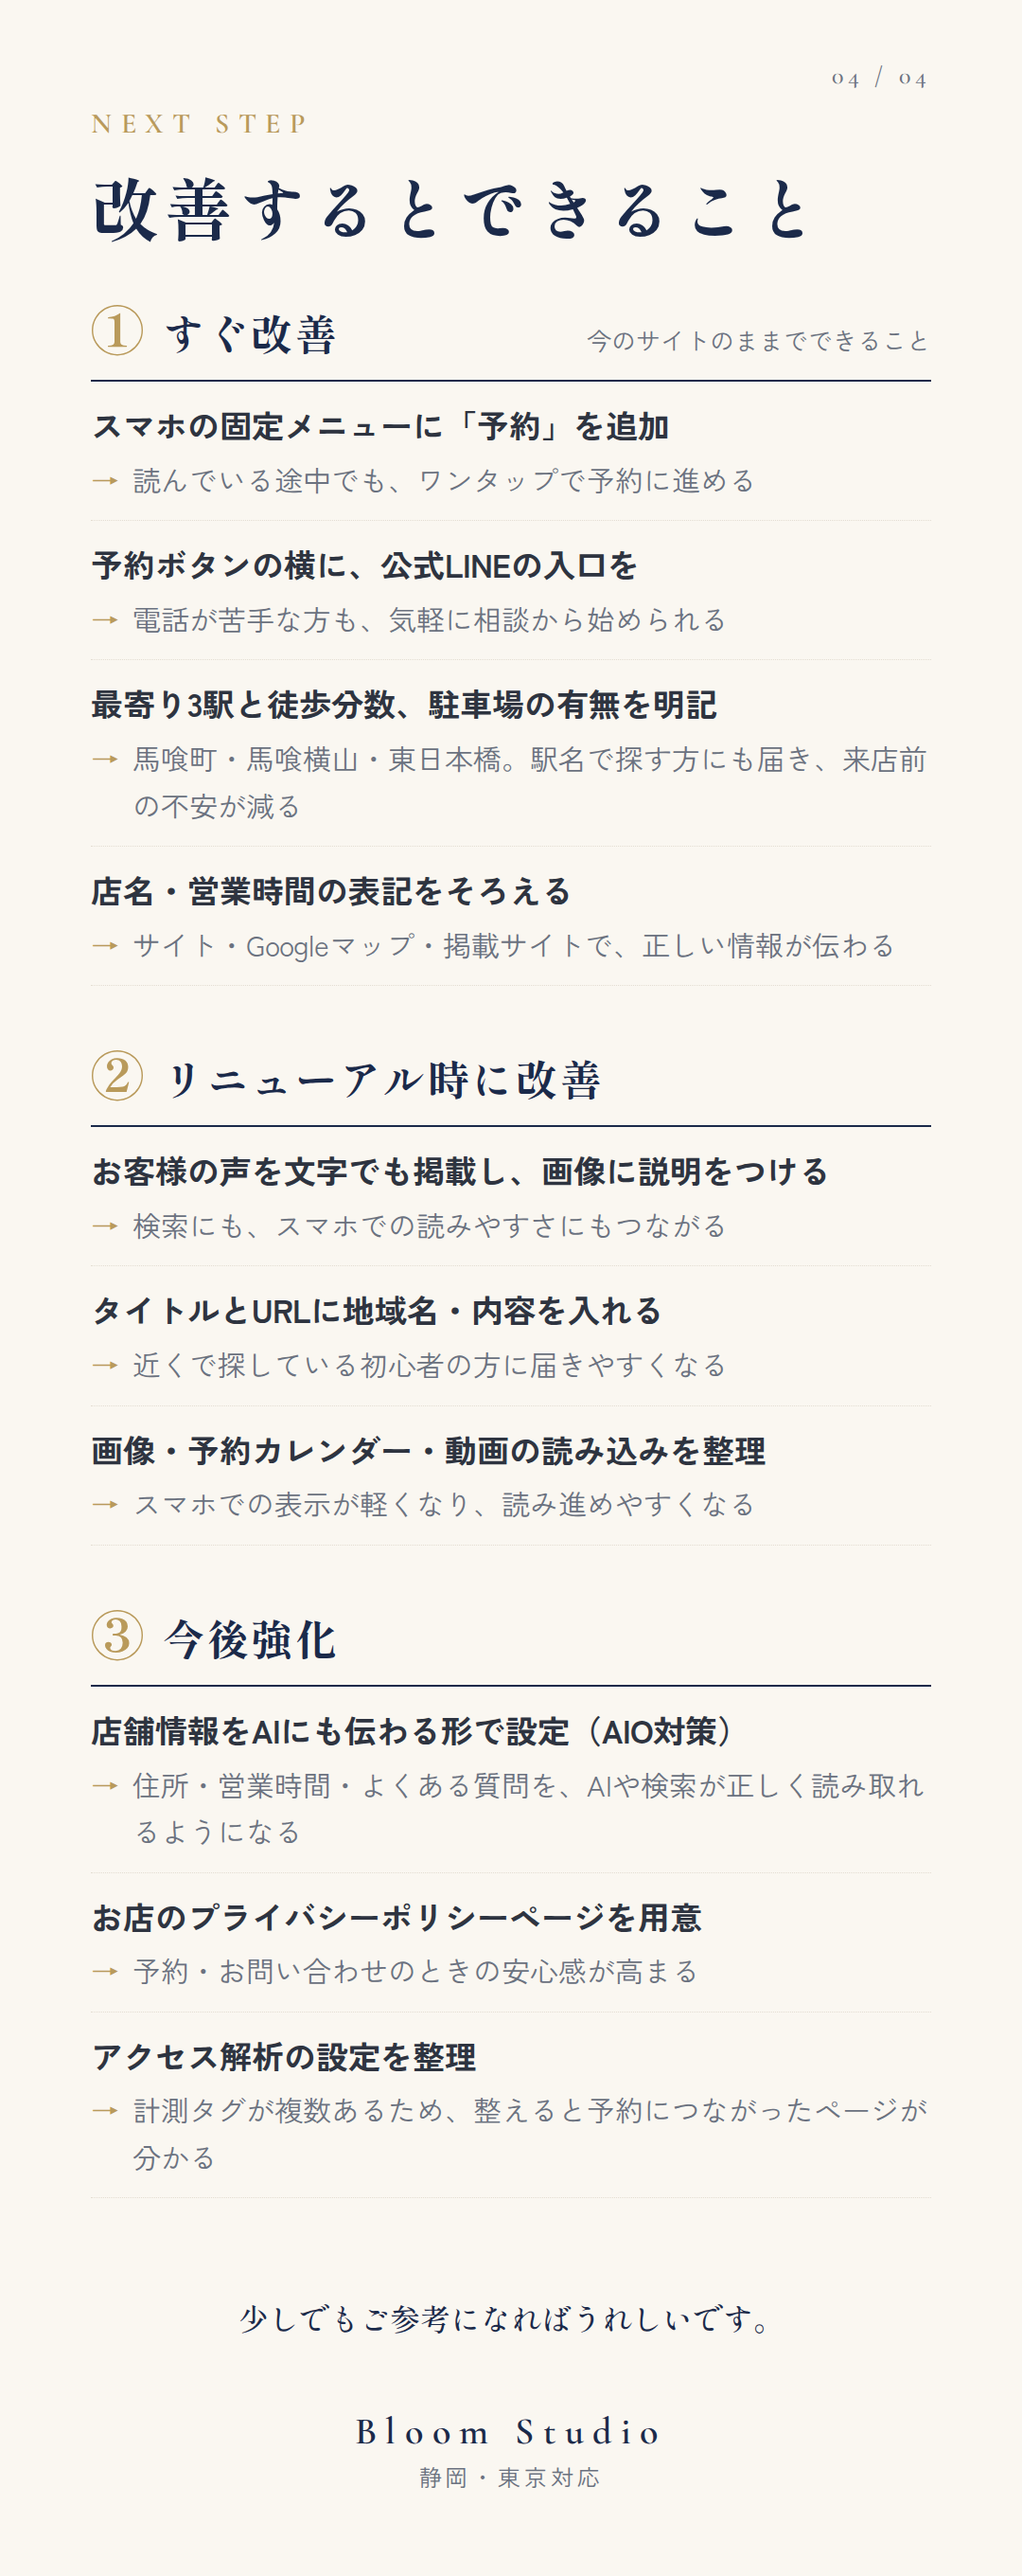
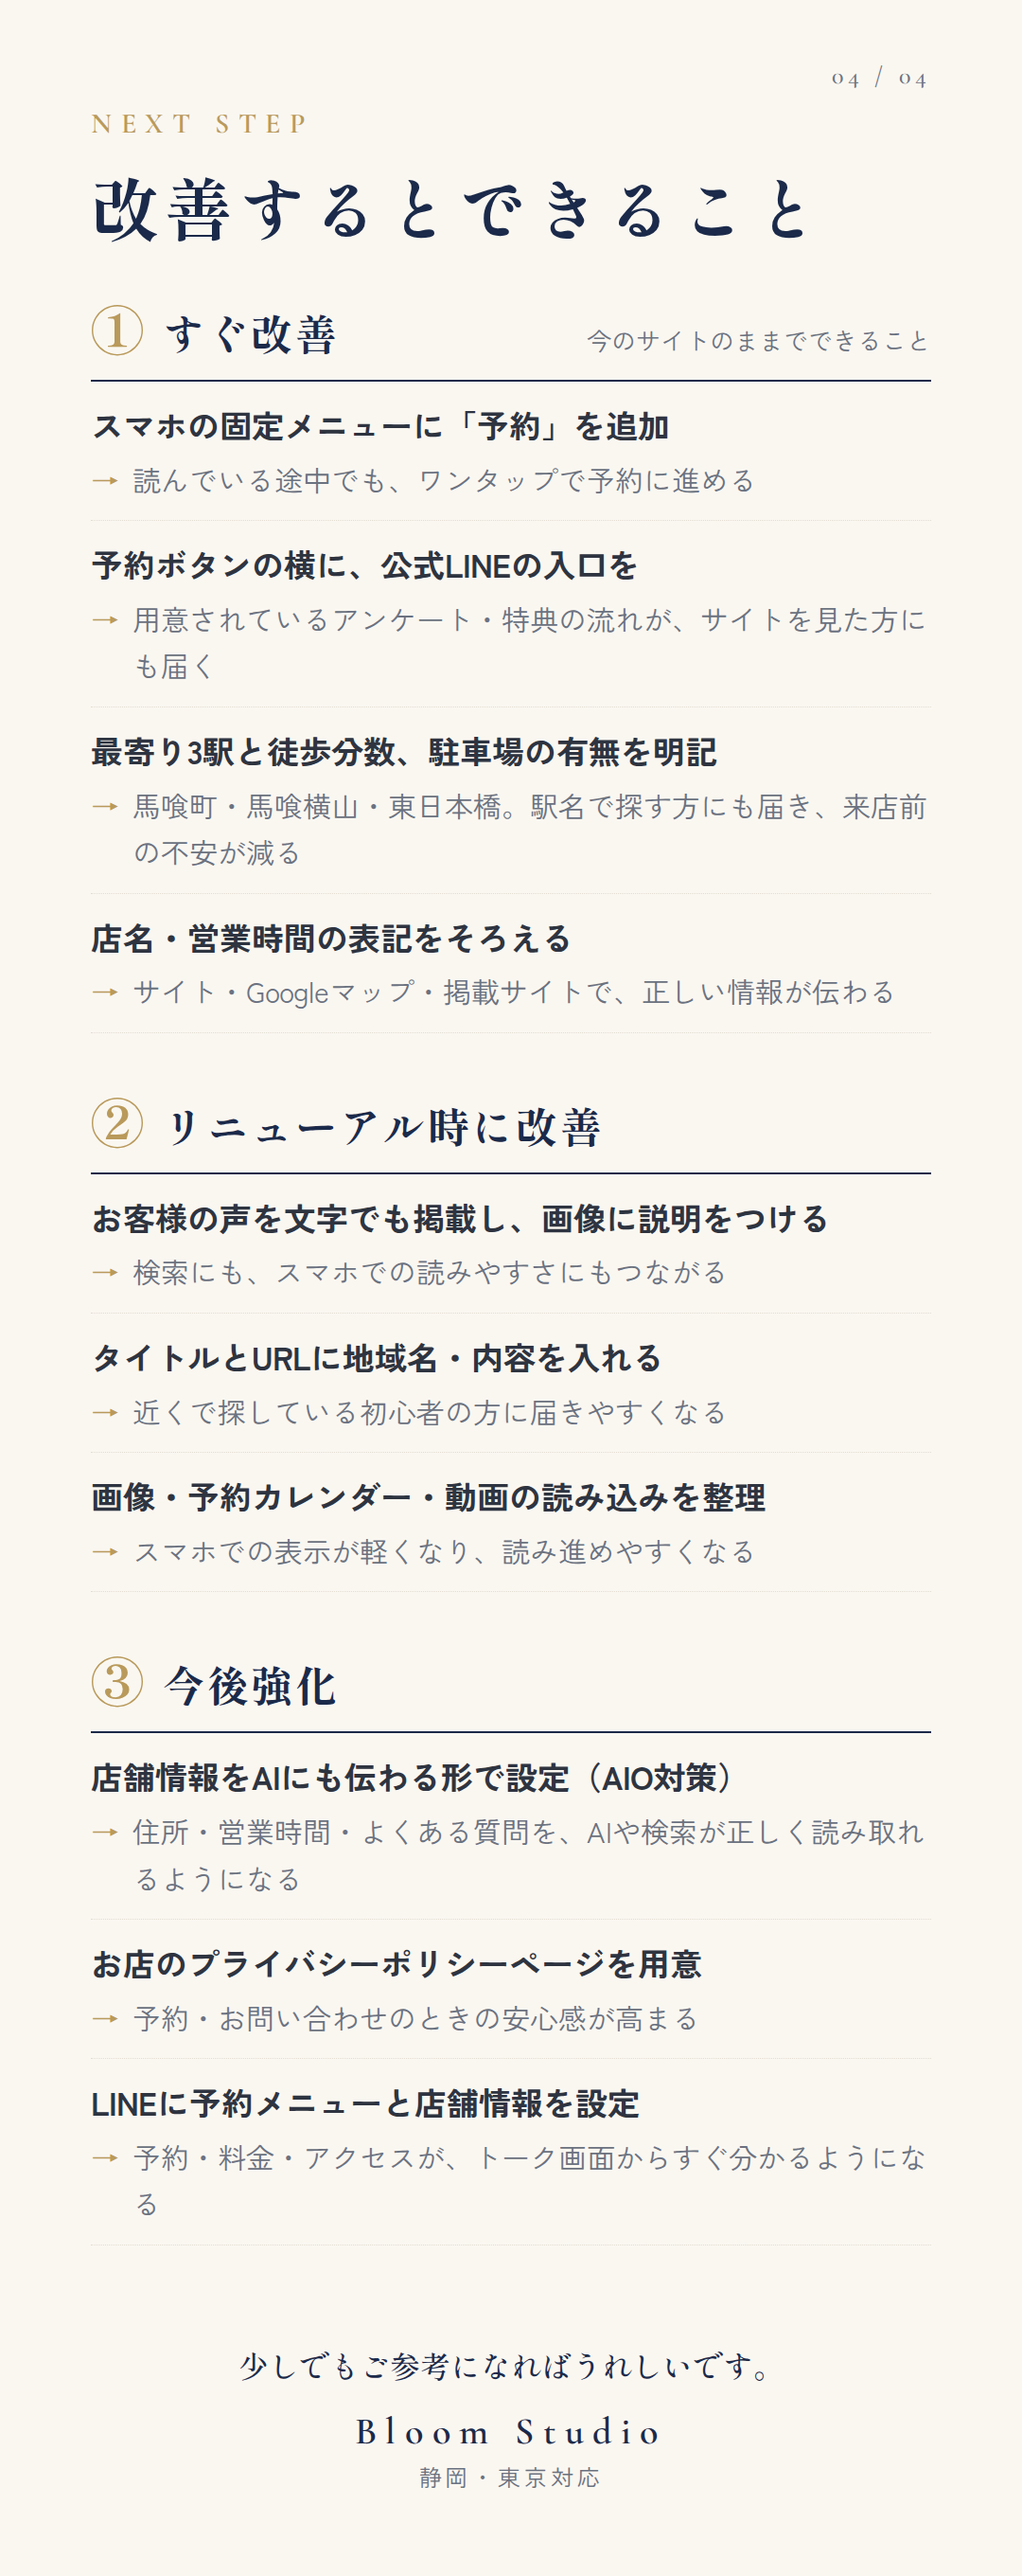
Add official LINE check to web diagnosis
Claude-Session: https://claude.ai/code/session_01Bsyju6n5ByhgCXtZwvMtoS

diff --git a/web_check/8x8_conditioning_lab.html b/web_check/8x8_conditioning_lab.html
@@ -151,9 +151,9 @@
     <p class="why">予約したくなった瞬間に押せる場所にあると、止まりにくくなります</p>
   </div>
   <div class="issue">
-    <div class="top"><span class="no">02</span><span class="tag">導線</span><h3>公式LINEへの入口がページ内にない</h3></div>
-    <p>予約方法は電話と予約カレンダーの2つ。LINE・Instagramへのリンクはなし</p>
-    <p class="why">電話は気が引ける方も、LINEなら気軽に相談しやすくなります</p>
+    <div class="top"><span class="no">02</span><span class="tag">導線</span><h3>サイトから公式LINEへの入口がない</h3></div>
+    <p>LINEは認証済みで、アンケート・特典動画・予約の流れまで用意。サイトにはリンクなし</p>
+    <p class="why">せっかくの仕組みが、サイトを見た方に届いていない状態です</p>
   </div>
   <div class="issue">
     <div class="top"><span class="no">03</span><span class="tag">来店</span><h3>最寄り駅・駐車場の案内がない</h3></div>
@@ -167,7 +167,7 @@
     <div class="row"><div class="k">信頼性</div><div class="v">「プライバシーポリシー」がGoogleのページにつながっている<span>お店の方針ページがあると、予約時の安心感につながります</span></div></div>
   </div>
 
-  <p class="note">※2026年9月27日時点の公開ページ（ソースを含む）・Google検索結果・外部掲載情報から確認した内容です。表示速度の実測値は含んでいません。</p>
+  <p class="note">※2026年9月27日時点の公開ページ（ソースを含む）・公式LINE・検索結果・外部掲載情報から確認した内容です。表示速度の実測値は含んでいません。</p>
 </section>
 
 <!-- ===== 3枚目：基本診断チェック ===== -->
@@ -188,7 +188,7 @@
     <tr><td>東日本橋 運動不足 40代 ジム</td><td class="c no-hit">表示なし</td><td class="c no-hit">名前なし</td></tr>
   </table>
 
-  <h2>10項目チェック</h2>
+  <h2>項目別チェック</h2>
   <div class="legend"><span><span class="mk a">◎</span>できている</span><span><span class="mk b">○</span>一部できている</span><span><span class="mk c">△</span>伸びしろ</span><span><span class="mk d">—</span>未計測</span></div>
   <div class="chk">
     <div class="row"><span class="mk b">○</span><div class="k">SEO</div><div class="v">トップは地域名入りのタイトル。はじめての方向けページは地域名なし・画像説明が空欄</div></div>
@@ -196,14 +196,15 @@
     <div class="row"><span class="mk c">△</span><div class="k">AIO</div><div class="v">AIの回答に店名が出てこない。店舗情報をAIが読み取れる形（構造化データ）で未設定</div></div>
     <div class="row"><span class="mk c">△</span><div class="k">基本情報</div><div class="v">店名の表記が複数、営業時間が掲載先で異なる</div></div>
     <div class="row"><span class="mk c">△</span><div class="k">スマホ</div><div class="v">固定メニューに「予約」がない</div></div>
-    <div class="row"><span class="mk b">○</span><div class="k">導線</div><div class="v">電話・予約カレンダーがページ内に3か所。LINEの入口はなし</div></div>
+    <div class="row"><span class="mk b">○</span><div class="k">導線</div><div class="v">電話・予約カレンダーがページ内に3か所。初回の案内はLINEが「無料カウンセリング」、サイトが「体験500円」</div></div>
+    <div class="row"><span class="mk b">○</span><div class="k">公式LINE</div><div class="v">認証済み・友だち157人。追加後のアンケートと特典の流れあり。予約メニューとプロフィールの店舗情報は未設定</div></div>
     <div class="row"><span class="mk c">△</span><div class="k">アクセス</div><div class="v">最寄り駅・徒歩分数・駐車場の案内なし</div></div>
     <div class="row"><span class="mk a">◎</span><div class="k">内容</div><div class="v">不安への共感・料金・よくある質問・代表あいさつまで充実</div></div>
     <div class="row"><span class="mk b">○</span><div class="k">信頼性</div><div class="v">代表の経歴・お客様の声あり。プライバシーポリシーが伸びしろ</div></div>
     <div class="row"><span class="mk d">—</span><div class="k">表示速度</div><div class="v">未計測。大きな画像・予約カレンダー2つ・動画を読み込む構成</div></div>
   </div>
 
-  <p class="note">※検索結果は地域・端末・時期によって変わるため参考値です（9月27日確認）。</p>
+  <p class="note">※検索結果は地域・端末・時期によって変わるため参考値です。公式LINEは友だち追加後の表示で確認（9月27日）。</p>
 </section>
 
 <!-- ===== 4枚目 ===== -->
@@ -218,7 +219,7 @@
     <div class="lv-h"><span class="n">①</span><b>すぐ改善</b><span class="sub">今のサイトのままでできること</span></div>
     <ul>
       <li><b>スマホの固定メニューに「予約」を追加</b><span>読んでいる途中でも、ワンタップで予約に進める</span></li>
-      <li><b>予約ボタンの横に、公式LINEの入口を</b><span>電話が苦手な方も、気軽に相談から始められる</span></li>
+      <li><b>予約ボタンの横に、公式LINEの入口を</b><span>用意されているアンケート・特典の流れが、サイトを見た方にも届く</span></li>
       <li><b>最寄り3駅と徒歩分数、駐車場の有無を明記</b><span>馬喰町・馬喰横山・東日本橋。駅名で探す方にも届き、来店前の不安が減る</span></li>
       <li><b>店名・営業時間の表記をそろえる</b><span>サイト・Googleマップ・掲載サイトで、正しい情報が伝わる</span></li>
     </ul>
@@ -238,7 +239,7 @@
     <ul>
       <li><b>店舗情報をAIにも伝わる形で設定（AIO対策）</b><span>住所・営業時間・よくある質問を、AIや検索が正しく読み取れるようになる</span></li>
       <li><b>お店のプライバシーポリシーページを用意</b><span>予約・お問い合わせのときの安心感が高まる</span></li>
-      <li><b>アクセス解析の設定を整理</b><span>計測タグが複数あるため、整えると予約につながったページが分かる</span></li>
+      <li><b>LINEに予約メニューと店舗情報を設定</b><span>予約・料金・アクセスが、トーク画面からすぐ分かるようになる</span></li>
     </ul>
   </div>
 

diff --git a/README.md b/README.md
@@ -4,6 +4,6 @@ bloom studio embed pages (price / works / contact) for Wix URL embed.
 
 ## web_check/ 無料Web診断（Threads DM用・縦長3枚）
 
-- `8x8_conditioning_lab.html` … 診断本体（1080×2720 のカード4枚：表紙／診断／基本チェック／改善）。新しい店舗はこのファイルを複製して中身を差し替える
+- `8x8_conditioning_lab.html` … 診断本体（1080×2720 のカード4枚：表紙／診断／基本チェック／改善）。公式LINEの確認結果を含む。新しい店舗はこのファイルを複製して中身を差し替える
 - `render.js` … カードをPNGに書き出す：`node render.js <html> out`
 - `out/` … 書き出したPNG（そのままDMに添付）
